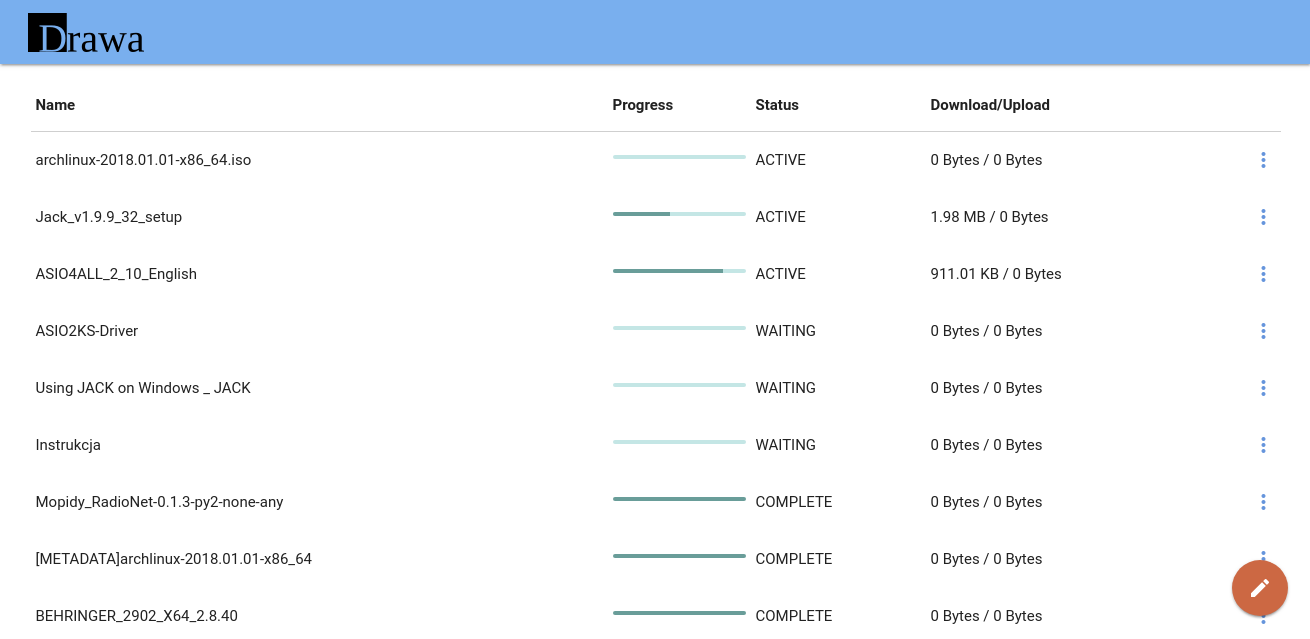
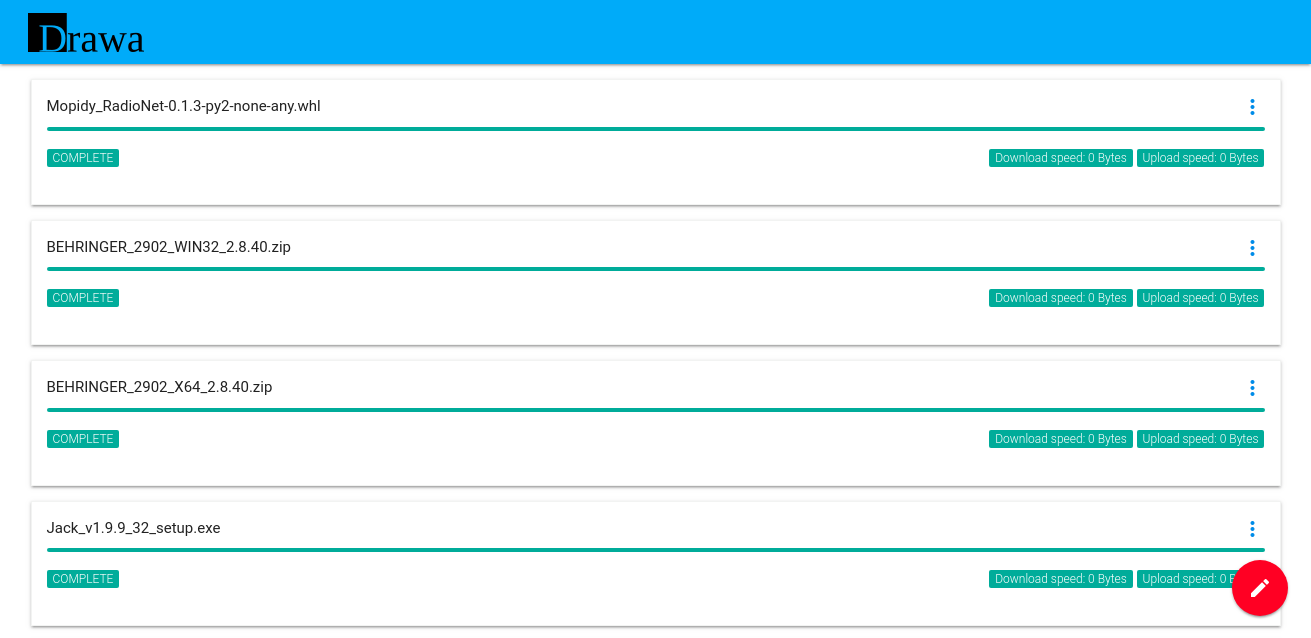
Change the appearance of the download list

diff --git a/drawa/app/www/templates/pages/main.html b/drawa/app/www/templates/pages/main.html
@@ -1,46 +1,37 @@
 <div ng-controller="QueueController">
-<table class="highlight">
-  <thead>
-    <tr>
-      <th>Name</th>
-      <th>Progress</th>
-      <th>Status</th>
-      <th>Download/Upload</th>
-      <th> </th>
-    </tr>
-  </thead>
-
-  <tbody>
-    <tr ng-repeat="item in queue | orderBy: 'item.gid' track by item.gid" ng-show="getDownloadName(item).length > 0">
-      <td>{{ getDownloadName(item) }}</td>
-      <td>
+  <div class="queue-item" ng-repeat="item in queue | orderBy: 'item.gid' track by item.gid" ng-show="getDownloadName(item).length > 0">
+    <div class="row">
+      <div class="col s12">
+        {{ getDownloadName(item) }}
+        <div class="btn-wrapper right">
+          <a class='dropdown-button' href='javascript:void(0);' data-activates='{{"menugid_" + item.gid}}' dropdown data-hover="true">
+              <span class="material-icons right">more_vert</span>
+          </a>
+          <!-- Dropdown Structure -->
+          <ul id='{{"menugid_" + item.gid}}' class='dropdown-content right' style="right:0">
+              <li><a ng-href="#!details/{{item.gid}}">Details</a></li>
+              <li class="divider"></li>
+              <li ng-show="item.status == 'active'"><a class="nohref" ng-click="pauseGid(item.gid)">Pause</a></li>
+              <li ng-show="item.status == 'paused'"><a class="nohref" ng-click="unpauseGid(item.gid)">Unpause</a></li>
+              <li ng-show="item.status == 'paused'"><a class="nohref" ng-click="removeGid(item.gid)">Remove</a></li>
+              <li ng-show="item.status == 'complete' || item.status=='error'"><a class="nohref" ng-click="purgeResultsGid(item.gid)">Remove</a></li>
+          </ul>
+        </div>
+      </div>
+      <div class="col s12">
         <div class="progress">
           <div class="determinate" style="width: {{ (item.completedLength / item.totalLength)*100 }}%"></div>
         </div>
-      </td>
-      <td>{{ item.status | uppercase }}</td>
-      <td>{{ formatBytes(item.downloadSpeed) }} 
-        /
-        {{ formatBytes(item.uploadSpeed) }} </td>
-      <td>
-        <div class="btn-wrapper right">
-            <a class='dropdown-button' href='javascript:void(0);' data-activates='{{"menugid_" + item.gid}}' dropdown data-hover="true">
-                <span class="material-icons right">more_vert</span>
-            </a>
-            <!-- Dropdown Structure -->
-            <ul id='{{"menugid_" + item.gid}}' class='dropdown-content right' style="right:0">
-                <li><a ng-href="#!details/{{item.gid}}">Details</a></li>
-                <li class="divider"></li>
-                <li ng-show="item.status == 'active'"><a class="nohref" ng-click="pauseGid(item.gid)">Pause</a></li>
-                <li ng-show="item.status == 'paused'"><a class="nohref" ng-click="unpauseGid(item.gid)">Unpause</a></li>
-                <li ng-show="item.status == 'paused'"><a class="nohref" ng-click="removeGid(item.gid)">Remove</a></li>
-                <li ng-show="item.status == 'complete' || item.status=='error'"><a class="nohref" ng-click="purgeResultsGid(item.gid)">Remove</a></li>
-            </ul>
-        </div>
-      </td>
-    </tr>
-
-  </tbody>
-</table>
+      </div>
+      <div class="col s12">
+        <span class="info-badge" data-badge-caption="">{{ item.status | uppercase }}</span>
+        <span class="right">
+            <span class="info-badge" data-badge-caption="">Download speed: {{ formatBytes(item.downloadSpeed) }}</span>
+             <span class="info-badge" data-badge-caption="">Upload speed: {{ formatBytes(item.uploadSpeed) }} </span>
+        </span>
+        
+      </div>
+    </div>
+  </div>
 </div>
 <div ng-include="'pages/actions.html'"></div>

diff --git a/drawa/app/www/static/css/app.css b/drawa/app/www/static/css/app.css
@@ -24,7 +24,29 @@ nav .nav-wrapper {
   margin: 0 auto;
   display: block;
 }
-
+.queue-item{
+  margin-bottom: 1em;
+  padding: 1em;
+  border: 1px solid #f3f3f2;
+  -webkit-box-shadow: 0 2px 2px 0 rgba(0,0,0,0.14), 0 1px 5px 0 rgba(0,0,0,0.12), 0 3px 1px -2px rgba(0,0,0,0.2);
+  box-shadow: 0 2px 2px 0 rgba(0,0,0,0.14), 0 1px 5px 0 rgba(0,0,0,0.12), 0 3px 1px -2px rgba(0,0,0,0.2);
+}
+.info-badge{
+  min-width: 3rem;
+  padding: 2px 6px;
+  text-align: center;
+  font-size: 1rem;
+  line-height: 22px;
+  height: 22px;
+  color: #757575;
+  -webkit-box-sizing: border-box;
+  box-sizing: border-box;
+  font-weight: 300;
+  font-size: 0.8rem;
+  color: #fff;
+  background-color: #26a69a;
+  border-radius: 2px;
+}
 .loader-wrapper{
   width: 100%;
   height: 100%;

diff --git a/drawa/app/www/static/js/app-controllers.js b/drawa/app/www/static/js/app-controllers.js
@@ -78,7 +78,7 @@ myApp.controller('AriaController', ['$scope', '$http', '$location', 'queueFactor
         }
         if (item.hasOwnProperty('files')) {
             try {
-                return $scope.getFileName(item.files[0].path);
+                return $scope.getFileName(item.files[0].path, true);
             } catch (err) {
                 console.log("Name not found, waiting...")
             }

diff --git a/drawa/app/www/templates/index.html b/drawa/app/www/templates/index.html
@@ -2,7 +2,7 @@
 <html ng-app="drawa">
 
 <head>
-
+  <title>Drawa :: Aria2</title>
   <link href="https://fonts.googleapis.com/icon?family=Material+Icons" rel="stylesheet">
 
   <link rel="stylesheet" href="%% url_for('static', filename='css/materialize.min.css') %%">
